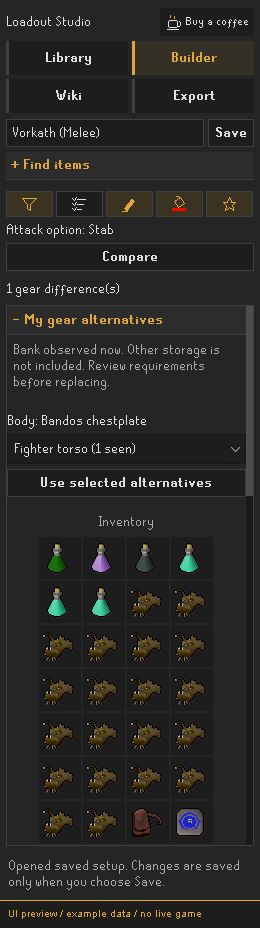
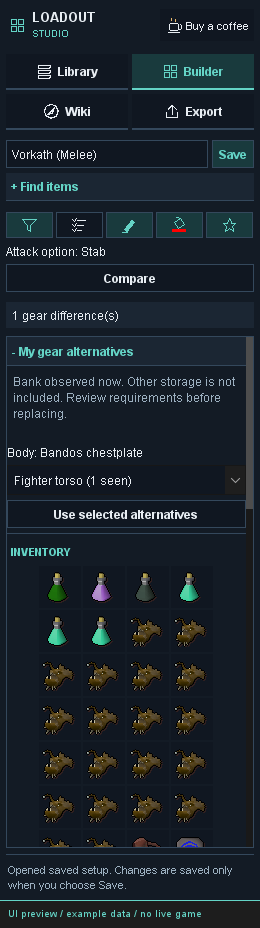
Give Loadout Studio a distinct slate and turquoise sidebar identity

Changed region(s): [[0.0, 0.0, 0.9846, 1.0], [0.6769, 0.9688, 0.7692, 1.0], [0.6154, 0.9688, 0.6462, 1.0]]

diff --git a/src/main/java/com/loadoutstudio/StudioPanel.java b/src/main/java/com/loadoutstudio/StudioPanel.java
@@ -127,8 +127,8 @@ public final class StudioPanel extends PluginPanel
 		public ItemInfo(int id, String name, boolean stackable, int slot, Icon icon) { this.id = id; this.name = name == null ? "Item " + id : name; this.stackable = stackable; this.slot = slot; this.icon = icon; }
 		@Override public String toString() { return name + "  [" + id + "]"; }
 	}
-	private static final Color GOLD = new Color(225, 166, 58), BG = new Color(37, 37, 37), CONTROL = new Color(29, 29, 29), OUTLINE = new Color(64, 64, 64), TEXT = new Color(224, 224, 224), MUTED = new Color(172, 172, 172), SLOT = new Color(29, 29, 29), RED = new Color(195, 92, 72);
-	private static final Font BODY_FONT = FontManager.getRunescapeFont(), ACTION_FONT = FontManager.getRunescapeBoldFont();
+	private static final Color GOLD=StudioTheme.ACCENT,BG=StudioTheme.BACKGROUND,CONTROL=StudioTheme.CONTROL,OUTLINE=StudioTheme.BORDER,TEXT=StudioTheme.TEXT,MUTED=StudioTheme.MUTED,SLOT=StudioTheme.CONTROL,RED=StudioTheme.ERROR;
+	private static final Font BODY_FONT=StudioTheme.BODY,ACTION_FONT=StudioTheme.ACTION;
 	private JTextField wikiQuery;
 	private final List<JButton> navigation = new ArrayList<>();
 	private final Host host;
@@ -139,7 +139,7 @@ public final class StudioPanel extends PluginPanel
 	private final JTabbedPane tabs = new JTabbedPane();
 	private final JPanel libraryRows = vertical(), builder = vertical(), builderTools = vertical();
 	private final Set<String> expandedPanels = new HashSet<>();
-	private final JTextField search = new JTextField(), setupName = new JTextField(){@Override public javax.swing.JToolTip createToolTip(){javax.swing.JToolTip tip=super.createToolTip();tip.putClientProperty("html.disable",true);return tip;}};
+	private final JTextField search = new JTextField(), setupName = new JTextField(){@Override public javax.swing.JToolTip createToolTip(){javax.swing.JToolTip tip=super.createToolTip();tip.putClientProperty("html.disable",true);return StudioTheme.tooltip(tip);}};
 	private final JCheckBox favorites = new JCheckBox("Favorites"), archived = new JCheckBox("Archived"), favorite = new JCheckBox("Favorite"), ignoreAmmo = new JCheckBox("Ignore Ammo quantities");
 	private final JComboBox<String> spellbook = new JComboBox<>(new String[]{"Standard", "Ancient", "Lunar", "Arceuus", "None"});
 	private final JCheckBox filterBank = new JCheckBox("Filter Bank"), bottomToTop = new JCheckBox("Zigzag: bottom row first");
@@ -200,13 +200,15 @@ public final class StudioPanel extends PluginPanel
 			@Override protected Insets getContentBorderInsets(int placement) { return new Insets(0, 0, 0, 0); }
 		});
 		tabs.addTab("Library", libraryTab()); tabs.addTab("Builder", builderTab()); tabs.addTab("Wiki", scroll(wikiTab())); tabs.addTab("Export", exportTab()); add(tabs, BorderLayout.CENTER);
-		JPanel heading = vertical(); JLabel title = text("Loadout Studio"); title.setName("studioTitle"); title.setToolTipText("Loadout Studio 0.8.5-test - character-specific setup library");
+		JPanel heading = vertical(); JLabel title = text("LOADOUT"); title.setName("studioTitle"); title.setToolTipText("Loadout Studio 0.9.0-test - character-specific setup library");
         JButton coffee = button("Buy a coffee", () -> attempt(host::openSupportPage)); coffee.setIcon(new SidebarIcon(SidebarIcon.Kind.COFFEE)); coffee.setName("supportCoffee"); coffee.setToolTipText("Buy a coffee"); coffee.getAccessibleContext().setAccessibleName("Buy a coffee"); coffee.getAccessibleContext().setAccessibleDescription(COFFEE_URL); coffee.setPreferredSize(new Dimension(94, 28));
-        JPanel titleBar = new JPanel(new BorderLayout(3, 0)); titleBar.add(title, BorderLayout.CENTER); titleBar.add(coffee, BorderLayout.EAST); heading.add(titleBar);
+        JPanel wordmark=new JPanel(new GridLayout(2,1,0,0));wordmark.setName("studioWordmark");wordmark.add(title);JLabel subtitle=text("STUDIO");subtitle.setName("studioSubtitle");wordmark.add(subtitle);
+        JPanel identity=new JPanel(new BorderLayout(6,0));JLabel mark=new JLabel(StudioTheme.route(1));mark.setName("studioMark");mark.setForeground(GOLD);mark.setPreferredSize(new Dimension(18,32));identity.add(mark,BorderLayout.WEST);identity.add(wordmark,BorderLayout.CENTER);
+        JPanel titleBar = new JPanel(new BorderLayout(4, 0));titleBar.setBorder(BorderFactory.createEmptyBorder(1,2,8,0));titleBar.add(identity, BorderLayout.CENTER); titleBar.add(coffee, BorderLayout.EAST); heading.add(titleBar);
 		JPanel menu = new JPanel(new GridLayout(2, 2, 4, 4));
 		for (int i = 0; i < tabs.getTabCount(); i++)
 		{
-			final int index = i; JButton route = button(tabs.getTitleAt(i), () -> tabs.setSelectedIndex(index)); route.setName("nav:" + tabs.getTitleAt(i)); route.setPreferredSize(new Dimension(100, 34)); navigation.add(route); menu.add(route);
+			final int index = i; JButton route = button(tabs.getTitleAt(i), () -> tabs.setSelectedIndex(index)); route.setName("nav:" + tabs.getTitleAt(i));route.setIcon(StudioTheme.route(i));route.setIconTextGap(6);route.setPreferredSize(new Dimension(100, 36)); navigation.add(route); menu.add(route);
 		}
 		heading.add(menu); add(heading, BorderLayout.NORTH); tabs.addChangeListener(e -> { updateNavigation(); if (tabs.getSelectedIndex() == 0) search.requestFocusInWindow(); if (tabs.getSelectedIndex() == 2 && wikiQuery != null) wikiQuery.requestFocusInWindow(); if (tabs.getSelectedIndex() == 3 && draft != null) refreshCode(); });
 		status.setName("studioStatus"); status.setRows(2); status.setEditable(false); status.setLineWrap(true); status.setWrapStyleWord(true); status.setBorder(BorderFactory.createEmptyBorder(6, 2, 2, 2)); add(status, BorderLayout.SOUTH);
@@ -278,13 +280,7 @@ public final class StudioPanel extends PluginPanel
 	@Override public Dimension getMinimumSize(){return new Dimension(0,0);}
     private static JPanel vertical() { return new Column(); }
 	private static JLabel text(String text) { JLabel label = new JLabel(text); label.putClientProperty("html.disable", true); label.setAlignmentX(Component.LEFT_ALIGNMENT); label.setFont(BODY_FONT); label.setForeground(TEXT); return label; }
-	private static void themeForm(Component component)
-	{
-		if (component instanceof JButton && "itemSlot".equals(component.getName())) return;
-		if (component instanceof JLabel) { component.setFont(BODY_FONT); }
-		else if (!(component instanceof Container) || component instanceof javax.swing.text.JTextComponent || component instanceof javax.swing.AbstractButton || component instanceof JComboBox || component instanceof JList) applyTheme(component);
-		else { component.setBackground(BG); for (Component child : ((Container) component).getComponents()) themeForm(child); }
-	}
+	private static void themeForm(Component component){applyTheme(component);}
 	private static JTextArea info(String value, int rows) { JTextArea area = new JTextArea(value, rows, 18); area.setEditable(false); area.setLineWrap(true); area.setWrapStyleWord(true); area.setMaximumSize(new Dimension(500, rows * 18 + 8)); return area; }
 	private static JPanel card(String title, Component... children) { JPanel p = vertical(); p.setBorder(BorderFactory.createCompoundBorder(BorderFactory.createLineBorder(OUTLINE), BorderFactory.createEmptyBorder(7, 7, 7, 7))); JLabel label = text(title); label.setName("sectionTitle"); label.setForeground(GOLD); p.add(label); for (Component child : children) p.add(child); return p; }
 	private JPanel disclosure(String title, Component content)
@@ -293,7 +289,7 @@ public final class StudioPanel extends PluginPanel
 		toggle.setName("disclosure:"+title);toggle.setHorizontalAlignment(JButton.LEFT);toggle.putClientProperty("disclosure",true);
 		toggle.addActionListener(e -> { boolean open = !content.isVisible(); content.setVisible(open); if (open) expandedPanels.add(title); else expandedPanels.remove(title); toggle.setText((open ? "- " : "+ ") + title); for (Container ancestor = p; ancestor != null; ancestor = ancestor.getParent()) { ancestor.invalidate(); if (ancestor == this) break; } p.revalidate(); }); p.add(toggle); p.add(content); return p;
 	}
-	private void updateNavigation() { for (int i = 0; i < navigation.size(); i++) { JButton b = navigation.get(i); boolean active = i == tabs.getSelectedIndex(); b.setForeground(active ? GOLD : TEXT); b.setBackground(active ? new Color(53, 48, 37) : CONTROL); b.setBorder(BorderFactory.createCompoundBorder(BorderFactory.createMatteBorder(0, 3, 0, 0, active ? GOLD : OUTLINE), BorderFactory.createEmptyBorder(5, 6, 5, 6))); } }
+	private void updateNavigation() { for (int i = 0; i < navigation.size(); i++) { JButton b = navigation.get(i); boolean active = i == tabs.getSelectedIndex(); b.setForeground(active ? GOLD : TEXT); b.setBackground(active ? StudioTheme.SELECTED : CONTROL); b.setBorder(BorderFactory.createCompoundBorder(BorderFactory.createMatteBorder(0, 0, 2, 0, active ? GOLD : OUTLINE), BorderFactory.createEmptyBorder(5, 6, 5, 6))); } }
     private static void themeMenu(javax.swing.JPopupMenu menu)
     {
         menu.setBackground(CONTROL);
@@ -312,8 +308,9 @@ public final class StudioPanel extends PluginPanel
     }
 	private static void applyTheme(Component component)
 	{
+		if(component instanceof JButton&&"itemSlot".equals(component.getName()))return;
 		component.setFont(BODY_FONT); component.setForeground(TEXT); component.setBackground(BG);
-		if ("exportCode".equals(component.getName())) { component.setFont(new Font(Font.MONOSPACED, Font.PLAIN, 11)); component.setBackground(CONTROL); }
+		if ("exportCode".equals(component.getName())) { component.setFont(StudioTheme.CODE); component.setBackground(CONTROL); }
 		if (component instanceof javax.swing.AbstractButton) { javax.swing.AbstractButton b = (javax.swing.AbstractButton) component; b.setBackground(CONTROL); if (!(b instanceof JCheckBox)) { b.setFont(ACTION_FONT); b.setBorder(BorderFactory.createCompoundBorder(BorderFactory.createLineBorder(OUTLINE), BorderFactory.createEmptyBorder(5, 6, 5, 6))); b.setFocusPainted(true); } }
         if (component instanceof JButton && component.getName() != null && component.getName().startsWith("library"))
         {
@@ -322,20 +319,31 @@ public final class StudioPanel extends PluginPanel
         }
         if (component instanceof JButton && "supportCoffee".equals(component.getName()))
         {
-            component.setFont(FontManager.getRunescapeSmallFont());
+            component.setFont(StudioTheme.SMALL);
             ((JButton)component).setBorder(BorderFactory.createEmptyBorder(2, 3, 2, 3));
         }
-		if(component instanceof JButton && ((JButton)component).getClientProperty("disclosure")!=null){JButton b=(JButton)component;b.setBackground(new Color(44,44,44));b.setForeground(GOLD);b.setBorder(BorderFactory.createCompoundBorder(BorderFactory.createMatteBorder(0,0,1,0,OUTLINE),BorderFactory.createEmptyBorder(6,5,6,5)));}
-        if(component instanceof JButton && component.getName()!=null && component.getName().startsWith("wikiPreset:")){JButton b=(JButton)component;b.setBackground(new Color(48,44,34));b.setForeground(GOLD);b.setBorder(BorderFactory.createCompoundBorder(BorderFactory.createMatteBorder(0,3,0,0,GOLD),BorderFactory.createEmptyBorder(7,8,7,8)));}
-        if(component instanceof JButton && component.getName()!=null && component.getName().startsWith("setupToggle:")){JButton b=(JButton)component;boolean selected=Boolean.TRUE.equals(b.getClientProperty("selected"));b.setBackground(selected?new Color(58,51,33):CONTROL);b.setForeground(selected?GOLD:TEXT);b.setBorder(BorderFactory.createCompoundBorder(BorderFactory.createLineBorder(OUTLINE),BorderFactory.createEmptyBorder(3,3,3,3)));}
+		if(component instanceof JButton && ((JButton)component).getClientProperty("disclosure")!=null){JButton b=(JButton)component;b.setBackground(StudioTheme.SURFACE);b.setForeground(GOLD);b.setBorder(BorderFactory.createCompoundBorder(BorderFactory.createMatteBorder(0,0,1,0,OUTLINE),BorderFactory.createEmptyBorder(6,5,6,5)));}
+        if(component instanceof JButton && component.getName()!=null && component.getName().startsWith("wikiPreset:")){JButton b=(JButton)component;b.setBackground(StudioTheme.SELECTED);b.setForeground(GOLD);b.setBorder(BorderFactory.createCompoundBorder(BorderFactory.createMatteBorder(0,3,0,0,GOLD),BorderFactory.createEmptyBorder(7,8,7,8)));}
+        if(component instanceof JButton && component.getName()!=null && component.getName().startsWith("setupToggle:")){JButton b=(JButton)component;boolean selected=Boolean.TRUE.equals(b.getClientProperty("selected"));b.setBackground(selected?StudioTheme.SELECTED:CONTROL);b.setForeground(selected?GOLD:TEXT);b.setBorder(BorderFactory.createCompoundBorder(BorderFactory.createLineBorder(OUTLINE),BorderFactory.createEmptyBorder(3,3,3,3)));}
+        if(component instanceof JCheckBox){JCheckBox b=(JCheckBox)component;b.setIcon(StudioTheme.check(false));b.setSelectedIcon(StudioTheme.check(true));b.setDisabledIcon(StudioTheme.check(false));b.setDisabledSelectedIcon(StudioTheme.check(true));b.setBackground(BG);}
         if (component instanceof JTextField || component instanceof JComboBox || component instanceof JList) component.setBackground(CONTROL);
 		if (component instanceof JTextField) ((JTextField) component).setBorder(BorderFactory.createCompoundBorder(BorderFactory.createLineBorder(OUTLINE), BorderFactory.createEmptyBorder(4, 5, 4, 5)));
 		if (component instanceof JScrollPane) ((JScrollPane) component).setBorder(BorderFactory.createLineBorder(OUTLINE));
 		if(component instanceof JComboBox && !Boolean.TRUE.equals(((JComboBox<?>)component).getClientProperty("preserveRenderer")))((JComboBox<?>)component).setRenderer(plainNames());
-        if (component instanceof JList) { ((JList<?>)component).setCellRenderer(plainNames());((JList<?>) component).setSelectionBackground(new Color(62, 53, 35)); ((JList<?>) component).setSelectionForeground(GOLD); }
+        if (component instanceof JList) { ((JList<?>)component).setCellRenderer(plainNames());((JList<?>) component).setSelectionBackground(StudioTheme.SELECTED); ((JList<?>) component).setSelectionForeground(GOLD); }
 		if (component instanceof JTextArea) { JTextArea a = (JTextArea) component; a.setForeground(a.isEditable() ? TEXT : MUTED); a.setBackground(a.isEditable() ? CONTROL : BG); }
 		if ("exportCode".equals(component.getName())) component.setBackground(CONTROL);
 		if (component instanceof JLabel && "sectionTitle".equals(component.getName())) { component.setForeground(GOLD); component.setFont(ACTION_FONT); }
+        if(component instanceof JLabel&&"studioTitle".equals(component.getName())){component.setFont(new Font(Font.SANS_SERIF,Font.BOLD,13));component.setForeground(TEXT);}
+        if(component instanceof JLabel&&"studioMark".equals(component.getName()))component.setForeground(GOLD);
+        if(component instanceof JLabel&&"studioSubtitle".equals(component.getName())){component.setFont(new Font(Font.SANS_SERIF,Font.BOLD,10));component.setForeground(GOLD);}
+        if(component instanceof JLabel&&"loadoutSectionTitle".equals(component.getName())){component.setFont(StudioTheme.SECTION);component.setForeground(GOLD);}
+        if(component instanceof JLabel&&"gearReadiness".equals(component.getName())){((JLabel)component).setOpaque(true);component.setBackground(StudioTheme.SURFACE);((JLabel)component).setBorder(BorderFactory.createEmptyBorder(5,6,5,6));}
+        if(component instanceof JButton&&component.getName()!=null&&component.getName().startsWith("libraryGroup:")){JButton b=(JButton)component;b.setHorizontalAlignment(JButton.LEFT);b.setBackground(BG);b.setForeground(MUTED);b.setFont(StudioTheme.SECTION);b.setBorder(BorderFactory.createCompoundBorder(BorderFactory.createMatteBorder(0,0,1,0,OUTLINE),BorderFactory.createEmptyBorder(8,4,6,4)));}
+        if(component instanceof JPanel&&component.getName()!=null&&component.getName().startsWith("libraryRow:")){component.setBackground(StudioTheme.SURFACE);((JPanel)component).setBorder(BorderFactory.createCompoundBorder(BorderFactory.createMatteBorder(0,2,0,0,GOLD),BorderFactory.createEmptyBorder(2,4,2,0)));}
+        if(component instanceof JButton&&component.getName()!=null&&component.getName().startsWith("libraryOpen:")){((JButton)component).setBorder(BorderFactory.createEmptyBorder(2,4,2,3));component.setBackground(StudioTheme.SURFACE);}
+        if(component instanceof JButton&&("Save".equals(((JButton)component).getText())||"Copy code".equals(((JButton)component).getText()))){component.setBackground(StudioTheme.SELECTED);component.setForeground(GOLD);}
+        if(component instanceof JTextArea&&"studioStatus".equals(component.getName())){component.setFont(StudioTheme.SMALL);((JTextArea)component).setBorder(BorderFactory.createCompoundBorder(BorderFactory.createMatteBorder(1,0,0,0,OUTLINE),BorderFactory.createEmptyBorder(7,2,0,2)));}
 		if (component instanceof Container) for (Component child : ((Container) component).getComponents()) applyTheme(child);
 	}
     private static javax.swing.DefaultListCellRenderer plainNames()
@@ -344,7 +352,7 @@ public final class StudioPanel extends PluginPanel
         {
             @Override public Component getListCellRendererComponent(JList<?> list,Object value,int index,boolean selected,boolean focus)
             {
-                putClientProperty("html.disable",true);Component rendered=super.getListCellRendererComponent(list,value,index,selected,focus);rendered.setFont(BODY_FONT);return rendered;
+                putClientProperty("html.disable",true);Component rendered=super.getListCellRendererComponent(list,value,index,selected,focus);rendered.setFont(BODY_FONT);rendered.setBackground(selected?StudioTheme.SELECTED:CONTROL);rendered.setForeground(selected?GOLD:TEXT);return rendered;
             }
         };
     }
@@ -489,7 +497,7 @@ public final class StudioPanel extends PluginPanel
 			String groupId = group.id == null ? "" : group.id;
 			boolean filtering = !query.isEmpty() || favorites.isSelected();
 			boolean folded = collapsed.contains(groupId) && !filtering;
-			JButton heading = button((folded ? "+ " : "- ") + group.name + " (" + records.size() + ")", () -> { if (!collapsed.add(groupId)) collapsed.remove(groupId); renderLibrary(); }); heading.setForeground(GOLD); heading.setAlignmentX(LEFT_ALIGNMENT); heading.setEnabled(!filtering); if (filtering) heading.setToolTipText("Matching sections stay expanded while filtering."); libraryRows.add(heading);
+			JButton heading = button((folded ? "+ " : "- ") + group.name + " (" + records.size() + ")", () -> { if (!collapsed.add(groupId)) collapsed.remove(groupId); renderLibrary(); }); heading.setName("libraryGroup:"+groupId);heading.setForeground(GOLD); heading.setAlignmentX(LEFT_ALIGNMENT); heading.setEnabled(!filtering); if (filtering) heading.setToolTipText("Matching sections stay expanded while filtering."); libraryRows.add(heading);
 			if (folded) continue;
 			for (SetupLibrary.Entry entry : records)
 			{
@@ -695,8 +703,8 @@ public final class StudioPanel extends PluginPanel
     }
     private static JPanel loadoutSection(String title, Component content)
     {
-        JPanel section = new JPanel(new BorderLayout(0, 6)) { @Override public Dimension getMaximumSize() { return new Dimension(500,getPreferredSize().height); } }; section.setName("loadoutSection:" + title); section.setBorder(BorderFactory.createEmptyBorder(12, 0, 8, 0));
-        JLabel label = text(title); label.setHorizontalAlignment(JLabel.CENTER); label.setForeground(MUTED); section.add(label, BorderLayout.NORTH);
+        JPanel section = new JPanel(new BorderLayout(0, 6)) { @Override public Dimension getMaximumSize() { return new Dimension(500,getPreferredSize().height); } }; section.setName("loadoutSection:" + title); section.setBorder(BorderFactory.createCompoundBorder(BorderFactory.createMatteBorder(1,0,0,0,OUTLINE),BorderFactory.createEmptyBorder(10,4,8,4)));
+        JLabel label = text(title.toUpperCase(java.util.Locale.ROOT));label.setName("loadoutSectionTitle");label.setFont(StudioTheme.SECTION);label.setHorizontalAlignment(JLabel.LEFT);label.setForeground(GOLD); section.add(label, BorderLayout.NORTH);
         JPanel centered = new JPanel(new java.awt.FlowLayout(java.awt.FlowLayout.CENTER, 0, 0)); centered.add(content); section.add(centered, BorderLayout.CENTER); return section;
     }
 	private int firstEmpty() { JsonArray inv = SetupCodec.setup(draft).getAsJsonArray("inv"); for (int i = 0; i < 28; i++) if (inv.get(i).isJsonNull()) return i; return -1; }
@@ -936,7 +944,7 @@ public final class StudioPanel extends PluginPanel
             for(OwnedGear.Proposal proposal:proposals){
                 int id=SetupCodec.id(proposal.before);ItemInfo original=owned.items.get(id);String missingName=proposal.before.getAsJsonObject().has("label")?proposal.before.getAsJsonObject().get("label").getAsString():original==null?itemCache.containsKey(id)?itemCache.get(id).name:"Item "+id:original.name;JLabel missing=text((proposal.container.equals("eq")?EQUIPMENT[proposal.index]:"Inventory "+(proposal.index+1))+": "+missingName);missing.setMinimumSize(new Dimension(0,18));missing.setToolTipText(missing.getText()+" · "+proposal.reason);alternativeRows.add(missing);
                 JComboBox<ItemInfo> select=new JComboBox<>();select.setName("ownedChoice:"+proposal.container+":"+proposal.index);select.addItem(new ItemInfo(-1,"Keep original",false,-1,null));for(ItemInfo item:proposal.choices.subList(0,Math.min(Math.max(1,Math.min(5,host.settings().maxAlternatives())),proposal.choices.size()))){select.addItem(item);itemCache.put(item.id,item);}
-                select.setRenderer(new javax.swing.DefaultListCellRenderer(){@Override public Component getListCellRendererComponent(JList<?> list,Object value,int index,boolean selected,boolean focused){JLabel label=(JLabel)super.getListCellRendererComponent(list,value,index,selected,focused);label.putClientProperty("html.disable",true);label.setFont(BODY_FONT);label.setText(value==null||((ItemInfo)value).id<1?"Keep original":((ItemInfo)value).name+" ("+owned.count(((ItemInfo)value).id)+" seen)");return label;}});
+                select.setRenderer(new javax.swing.DefaultListCellRenderer(){@Override public Component getListCellRendererComponent(JList<?> list,Object value,int index,boolean selected,boolean focused){JLabel label=(JLabel)super.getListCellRendererComponent(list,value,index,selected,focused);label.putClientProperty("html.disable",true);label.setFont(BODY_FONT);label.setBackground(selected?StudioTheme.SELECTED:CONTROL);label.setForeground(selected?GOLD:TEXT);label.setText(value==null||((ItemInfo)value).id<1?"Keep original":((ItemInfo)value).name+" ("+owned.count(((ItemInfo)value).id)+" seen)");return label;}});
                 select.putClientProperty("preserveRenderer",true);select.setToolTipText(proposal.reason);alternativeRows.add(select);choices.put(proposal,select);
             }
             if(proposals.isEmpty())alternativeRows.add(info("No supported owned alternatives found. Missing gear is not automatically replaced.",3));

diff --git a/src/main/java/com/loadoutstudio/StudioTheme.java b/src/main/java/com/loadoutstudio/StudioTheme.java
@@ -1,0 +1,17 @@
+/* SPDX-License-Identifier: BSD-2-Clause */
+package com.loadoutstudio;
+import java.awt.*;
+import javax.swing.*;
+/** Loadout Studio's own palette. Applied locally; never changes RuneLite UI defaults. */
+final class StudioTheme {
+    static final Color BACKGROUND=new Color(19,27,37),SURFACE=new Color(27,38,51),CONTROL=new Color(16,23,33),BORDER=new Color(52,72,92),TEXT=new Color(231,237,242),MUTED=new Color(156,176,192),ACCENT=new Color(100,212,198),SELECTED=new Color(25,58,61),FAVORITE=new Color(231,184,110),ERROR=new Color(230,139,134);
+    static final Font BODY=new Font(Font.SANS_SERIF,Font.PLAIN,12),ACTION=new Font(Font.SANS_SERIF,Font.BOLD,12),SMALL=new Font(Font.SANS_SERIF,Font.PLAIN,11),SECTION=new Font(Font.SANS_SERIF,Font.BOLD,11),CODE=new Font(Font.MONOSPACED,Font.PLAIN,11);
+    private StudioTheme(){}
+    static JToolTip tooltip(JToolTip tip){tip.setFont(SMALL);tip.setBackground(SURFACE);tip.setForeground(TEXT);tip.setBorder(BorderFactory.createCompoundBorder(BorderFactory.createLineBorder(BORDER),BorderFactory.createEmptyBorder(5,7,5,7)));return tip;}
+    static Icon check(boolean selected){return new Icon(){public int getIconWidth(){return 16;}public int getIconHeight(){return 16;}public void paintIcon(Component c,Graphics graphics,int x,int y){Graphics2D g=(Graphics2D)graphics.create();g.translate(x,y);g.setColor(selected?SELECTED:CONTROL);g.fillRoundRect(1,1,13,13,3,3);g.setColor(!c.isEnabled()?MUTED:selected?ACCENT:BORDER);g.drawRoundRect(1,1,13,13,3,3);if(selected){g.setStroke(new BasicStroke(1.6f));g.drawLine(4,7,7,10);g.drawLine(7,10,12,4);}g.dispose();}};}
+    static Icon route(int kind){return new Icon(){public int getIconWidth(){return 16;}public int getIconHeight(){return 16;}public void paintIcon(Component c,Graphics graphics,int x,int y){Graphics2D g=(Graphics2D)graphics.create();g.translate(x,y);g.setColor(c.getForeground());g.setStroke(new BasicStroke(1.3f));
+        if(kind==0){for(int i=0;i<3;i++){g.drawRoundRect(2,2+i*5,12,3,1,1);}}
+        else if(kind==1){for(int row=0;row<2;row++)for(int col=0;col<2;col++)g.drawRect(2+col*7,2+row*7,5,5);}
+        else if(kind==2){g.drawOval(1,1,14,14);g.drawPolygon(new int[]{5,11,9},new int[]{11,5,10},3);}
+        else{g.drawLine(2,9,2,14);g.drawLine(2,14,13,14);g.drawLine(13,14,13,9);g.drawLine(8,11,8,2);g.drawLine(4,6,8,2);g.drawLine(8,2,12,6);}g.dispose();}};}
+}

diff --git a/src/test/java/com/loadoutstudio/StudioIdentityStyleTest.java b/src/test/java/com/loadoutstudio/StudioIdentityStyleTest.java
@@ -1,0 +1,10 @@
+/* SPDX-License-Identifier: BSD-2-Clause */
+package com.loadoutstudio;
+import java.awt.*;import javax.swing.*;import org.junit.Test;import net.runelite.http.api.RuneLiteAPI;import static org.junit.Assert.*;
+public class StudioIdentityStyleTest {
+ @Test public void stylingDoesNotMutateNativeRuneLiteDefaults()throws Exception{SwingUtilities.invokeAndWait(()->{Color background=UIManager.getColor("Panel.background"),selection=UIManager.getColor("List.selectionBackground");Font font=UIManager.getFont("Label.font");StudioPanel panel=new StudioPanel(new PanelTest.FakeHost(),RuneLiteAPI.GSON);assertEquals(background,UIManager.getColor("Panel.background"));assertEquals(selection,UIManager.getColor("List.selectionBackground"));assertEquals(font,UIManager.getFont("Label.font"));assertEquals(StudioTheme.BACKGROUND,panel.getBackground());panel.dispose();});}
+ private static double lum(Color c){double[] v={c.getRed()/255d,c.getGreen()/255d,c.getBlue()/255d};for(int i=0;i<3;i++)v[i]=v[i]<=.04045?v[i]/12.92:Math.pow((v[i]+.055)/1.055,2.4);return .2126*v[0]+.7152*v[1]+.0722*v[2];}
+ private static double contrast(Color a,Color b){double x=lum(a),y=lum(b);return (Math.max(x,y)+.05)/(Math.min(x,y)+.05);}
+ @Test public void ownTextAndAccentPairsRemainReadable(){assertTrue(contrast(StudioTheme.TEXT,StudioTheme.BACKGROUND)>=4.5);assertTrue(contrast(StudioTheme.MUTED,StudioTheme.BACKGROUND)>=4.5);assertTrue(contrast(StudioTheme.ACCENT,StudioTheme.SELECTED)>=4.5);assertTrue(contrast(StudioTheme.TEXT,StudioTheme.CONTROL)>=4.5);assertTrue(contrast(StudioTheme.ERROR,StudioTheme.BACKGROUND)>=4.5);}
+ @Test public void navigationAndPermanentSupportLabelsFitWithTheirIcons()throws Exception{SwingUtilities.invokeAndWait(()->{for(int width:new int[]{220,260}){StudioPanel panel=new StudioPanel(new PanelTest.FakeHost(),RuneLiteAPI.GSON);panel.setSize(width,900);OwnedGearPanelTest.layout(panel);OwnedGearPanelTest.layout(panel);for(String name:new String[]{"nav:Library","nav:Builder","nav:Wiki","nav:Export","supportCoffee"}){JButton b=(JButton)OwnedGearPanelTest.find(panel,name);int needed=b.getFontMetrics(b.getFont()).stringWidth(b.getText())+b.getInsets().left+b.getInsets().right+b.getIcon().getIconWidth()+b.getIconTextGap();assertTrue(name+" needs "+needed+"px; available="+b.getWidth(),needed<=b.getWidth());assertTrue(b.isVisible());}panel.dispose();}});}
+}

diff --git a/src/main/java/com/loadoutstudio/LibrarySetupRow.java b/src/main/java/com/loadoutstudio/LibrarySetupRow.java
@@ -48,7 +48,7 @@ final class LibrarySetupRow extends JPanel
             setHorizontalAlignment(LEFT); setMargin(new Insets(2, 5, 2, 3));
             setPreferredSize(new Dimension(120, 30)); setMinimumSize(new Dimension(0, 30));
         }
-        @Override public JToolTip createToolTip(){JToolTip tip=super.createToolTip();tip.putClientProperty("html.disable",true);return tip;}
+        @Override public JToolTip createToolTip(){JToolTip tip=super.createToolTip();tip.putClientProperty("html.disable",true);return StudioTheme.tooltip(tip);}
         @Override public void setBounds(int x, int y, int width, int height)
         {
             super.setBounds(x, y, width, height);
@@ -75,7 +75,7 @@ final class LibrarySetupRow extends JPanel
             public void paintIcon(Component c, Graphics graphics, int x, int y)
             {
                 Graphics2D g = (Graphics2D)graphics.create(); g.translate(x, y);
-                g.setColor(selected ? new Color(225, 166, 58) : c.getForeground());
+                g.setColor(selected ? StudioTheme.FAVORITE : c.getForeground());
                 if (kind == 0)
                 {
                     Path2D star = new Path2D.Double();
@@ -88,7 +88,7 @@ final class LibrarySetupRow extends JPanel
                 }
                 else if (kind == 3)
                 {
-                    g.setColor(new Color(218, 117, 117)); g.drawLine(2, 4, 13, 4); g.drawRect(6, 1, 4, 2); g.drawRect(4, 5, 8, 9); g.drawLine(7, 7, 7, 12); g.drawLine(9, 7, 9, 12);
+                    g.setColor(StudioTheme.ERROR); g.drawLine(2, 4, 13, 4); g.drawRect(6, 1, 4, 2); g.drawRect(4, 5, 8, 9); g.drawLine(7, 7, 7, 12); g.drawLine(9, 7, 9, 12);
                 }
                 else
                 {

diff --git a/src/test/java/com/loadoutstudio/SidebarLayoutTest.java b/src/test/java/com/loadoutstudio/SidebarLayoutTest.java
@@ -10,7 +10,6 @@ import java.util.function.BiConsumer;
 import javax.imageio.ImageIO;
 import javax.swing.*;
 import net.runelite.http.api.RuneLiteAPI;
-import net.runelite.client.ui.FontManager;
 import org.junit.Test;
 import static org.junit.Assert.*;
 
@@ -48,7 +47,7 @@ public class SidebarLayoutTest
                 JButton coffee = (JButton)find(panel, "supportCoffee"); assertEquals("Buy a coffee", coffee.getText()); assertNotNull(coffee.getIcon()); assertEquals("https://buymeacoffee.com/pascalvdbe9", coffee.getAccessibleContext().getAccessibleDescription()); coffee.doClick(); assertEquals(1, supportClicks[0]);
                 assertFalse(((JButton)find(panel, "Copy code")).isEnabled()); panel.newDraft(SetupCodec.blank("Vorkath")); assertTrue(((JButton)find(panel, "Copy code")).isEnabled());
 				layout(panel); layout(panel); String[] routes = {"Library", "Builder", "Wiki", "Export"}; Rectangle[] bounds = new Rectangle[4];
-				for (int i = 0; i < 4; i++) { JButton route = (JButton)find(panel, "nav:" + routes[i]); bounds[i] = route.getBounds(); assertTrue(route.getWidth() >= 80); assertTrue(route.getHeight() >= 30); assertEquals(FontManager.getRunescapeFont().getFamily(), route.getFont().getFamily()); }
+				for (int i = 0; i < 4; i++) { JButton route = (JButton)find(panel, "nav:" + routes[i]); bounds[i] = route.getBounds(); assertTrue(route.getWidth() >= 80); assertTrue(route.getHeight() >= 30); assertEquals(StudioTheme.ACTION.getFamily(), route.getFont().getFamily()); }
 				for (int tab = 0; tab < 4; tab++)
 				{
 					((JButton)find(panel, "nav:" + routes[tab])).doClick();

diff --git a/src/main/java/com/loadoutstudio/SidebarIcon.java b/src/main/java/com/loadoutstudio/SidebarIcon.java
@@ -15,12 +15,12 @@ final class SidebarIcon implements Icon
     public void paintIcon(Component component, Graphics graphics, int x, int y)
     {
         Graphics2D g = (Graphics2D)graphics.create(); g.translate(x, y);
-        g.setColor(kind == Kind.NEW ? new Color(85, 180, 91) : component.getForeground());
+        g.setColor(kind == Kind.NEW ? StudioTheme.ACCENT : component.getForeground());
         switch (kind)
         {
             case COFFEE:
                 g.drawRoundRect(3, 6, 9, 7, 2, 2); g.drawArc(11, 7, 4, 5, -90, 180); g.drawLine(2, 15, 13, 15);
-                g.setColor(new Color(225, 166, 58)); g.drawLine(5, 1, 5, 3); g.drawLine(9, 2, 9, 4); break;
+                g.setColor(StudioTheme.FAVORITE); g.drawLine(5, 1, 5, 3); g.drawLine(9, 2, 9, 4); break;
             case NEW: g.fillRect(7, 2, 2, 12); g.fillRect(2, 7, 12, 2); break;
             case CAPTURE:
                 g.drawRoundRect(1, 5, 13, 9, 2, 2); g.drawRect(4, 2, 6, 3); g.drawOval(5, 7, 5, 5); break;

diff --git a/src/main/java/com/loadoutstudio/LoadoutSlotButton.java b/src/main/java/com/loadoutstudio/LoadoutSlotButton.java
@@ -11,7 +11,7 @@ import net.runelite.client.util.AsyncBufferedImage;
 /** Counts are an overlay inside the cell, not a second layout row above its icon. */
 final class LoadoutSlotButton extends JButton
 {
-    @Override public javax.swing.JToolTip createToolTip(){javax.swing.JToolTip tip=super.createToolTip();tip.putClientProperty("html.disable",true);return tip;}
+    @Override public javax.swing.JToolTip createToolTip(){javax.swing.JToolTip tip=super.createToolTip();tip.putClientProperty("html.disable",true);return StudioTheme.tooltip(tip);}
     private String amount = "";
     java.util.function.Function<Boolean,javax.swing.JPopupMenu> menuFactory;
     @Override protected void processMouseEvent(java.awt.event.MouseEvent event){if(menuFactory!=null&&(event.isPopupTrigger()||javax.swing.SwingUtilities.isRightMouseButton(event)))setComponentPopupMenu(menuFactory.apply(event.isShiftDown()));super.processMouseEvent(event);}

diff --git a/src/test/java/com/loadoutstudio/StylingConsistencyTest.java b/src/test/java/com/loadoutstudio/StylingConsistencyTest.java
@@ -6,7 +6,6 @@ import java.awt.image.BufferedImage;
 import java.io.File;
 import javax.imageio.ImageIO;
 import javax.swing.*;
-import net.runelite.client.ui.FontManager;
 import net.runelite.http.api.RuneLiteAPI;
 import org.junit.Test;
 import static org.junit.Assert.*;
@@ -26,8 +25,8 @@ public class StylingConsistencyTest
     {
         for (Component child : menu.getComponents())
         {
-            assertEquals(FontManager.getRunescapeFont(), child.getFont());
-            assertEquals(new Color(29,29,29), child.getBackground());
+            assertEquals(StudioTheme.BODY, child.getFont());
+            assertEquals(StudioTheme.CONTROL, child.getBackground());
             if (child instanceof JMenu) checkMenu(((JMenu) child).getPopupMenu());
         }
     }

diff --git a/src/main/java/com/loadoutstudio/StudioDiagnostics.java b/src/main/java/com/loadoutstudio/StudioDiagnostics.java
@@ -6,7 +6,7 @@ import java.util.*;
 
 /** Bounded session-only diagnostics. No free text, identifiers, files or network transport. */
 final class StudioDiagnostics {
-    static final String VERSION="0.8.5-test";
+    static final String VERSION="0.9.0-test";
     static final String ISSUE_URL="https://github.com/Pa5cal1/runelite-loadout-studio/issues/new?template=bug_report.yml";
     enum Operation { UI_ACTION,SAVE,IMPORT,EXPORT_PREVIEW,EXPORT_COPY,ITEM_EDIT,ITEM_SEARCH,WIKI_SEARCH,WIKI_PAGE,WIKI_HTTP,WIKI_CACHE_HIT,WIKI_CACHE_FALLBACK,WIKI_CACHE_IO,WIKI_COALESCED,BANK_FILTER,BANK_LAYOUT,ALTERNATIVES }
     enum Outcome { SUCCESS,VALIDATION,EXPECTED_STATE,IO_FAILURE,SERVICE_FAILURE,UNEXPECTED }

diff --git a/src/main/java/com/loadoutstudio/WikiClient.java b/src/main/java/com/loadoutstudio/WikiClient.java
@@ -33,7 +33,7 @@ public final class WikiClient
     private long nextRequest, cooldown;
     private boolean busy;
     private volatile boolean closed;
-    private static final String USER_AGENT="LoadoutStudio/0.8.5 (https://github.com/Pa5cal1/runelite-loadout-studio; RuneLite)";
+    private static final String USER_AGENT="LoadoutStudio/0.9.0 (https://github.com/Pa5cal1/runelite-loadout-studio; RuneLite)";
     interface Store
     {
         String load() throws IOException;

diff --git a/README.md b/README.md
@@ -2,13 +2,13 @@
 
 Create and organise gear setups for Old School RuneScape. Find loadouts on the OSRS Wiki, edit your Inventory and Equipment, and use your setups with Bank Tags or Inventory Setups.
 
-**Current version: 0.8.5-test.** Loadout Studio is a local test plugin and is not yet available through the RuneLite Plugin Hub. Docker is not required to run the plugin or the Java/Gradle test client.
+**Current version: 0.9.0-test.** Loadout Studio is a local test plugin and is not yet available through the RuneLite Plugin Hub. Docker is not required to run the plugin or the Java/Gradle test client.
 
 Loadout Studio works without the Inventory Setups and standalone Bank Tag Layouts hub plugins. It owns its library, editor, comparison and codecs. Bank filtering also works with built-in **Bank Tags** disabled. When it is active, Loadout Studio can use its native layout service; otherwise it uses an independent view of the ordinary Bank's real widgets. Actual Bank stock counts and item child indices are preserved. Optional imports create independent copies.
 
 ## Screenshots
 
-Offline renders of the actual sidebar using RuneLite styling and example loadouts. These are UI previews, not captures of a logged-in client or proof of live Bank behavior.
+Offline renders of the actual sidebar using Loadout Studio's own slate/turquoise theme and example loadouts. These are UI previews, not captures of a logged-in client or proof of live Bank behavior.
 
 ![Library, Builder, Wiki and Export previews](docs/screenshots/overview.png)
 
@@ -50,6 +50,12 @@ The sidebar has four tabs:
 - **Builder** — view and edit the selected loadout.
 - **Wiki** — search for an activity and choose a setup.
 - **Export** — copy a setup in the format you want to use.
+
+## Visual Design
+
+Loadout Studio uses its own dark slate surfaces, turquoise accents, sans-serif typography, wordmark, navigation icons and compact setup cards. Primary actions, expandable sections and Wiki setup choices have distinct treatments. OSRS item sprites, yellow stack counts and the familiar slot geometry remain intact.
+
+The theme is applied only to this plugin's sidebar, controls and support views. RuneLite's native configuration window and in-game Bank menus retain the host's styling; other plugins' UI defaults are not changed.
 
 ## Plugin Preferences
 
@@ -303,6 +309,13 @@ Automated tests cover data formats, item matching, layouts, caching and sidebar 
 </details>
 
 ## Changelog
+
+### 0.9.0-test
+
+- Give Loadout Studio a distinct slate/turquoise visual identity, sans-serif text, two-line wordmark and icon navigation.
+- Restyle setup cards, section headings, Wiki choices, primary actions, checkboxes, menus and tooltips consistently within this plugin.
+- Preserve item artwork, count rendering, slot dimensions, saved data and native RuneLite settings styling. No global UI defaults are changed.
+- Refresh the sidebar and diagnostics screenshot gallery; verify contrast and narrow navigation labels.
 
 ### 0.8.5-test
 

diff --git a/docs/sidebar-system-design.md b/docs/sidebar-system-design.md
@@ -143,3 +143,9 @@ Three settings documentation images derive their names, ordering, sections and d
 StudioDiagnostics keeps fixed enum-based counters/durations and a 24-entry ring in memory. UI action boundaries, Wiki requests/cache and Bank operations record typed outcomes; validation and expected states are separated from unexpected faults. Reports deliberately omit messages and dynamic payloads; only bounded own-package stack frames are retained for unexpected exceptions. Reports are reviewed and copied manually. Opening the static GitHub issue-form URL sends no report; no remote telemetry or persistent diagnostics store is implemented. Support config can stop and clear recording.
 
 Show worn items gets a distinct Loadout Studio submenu. Layout/filter actions carry the profile owner and draft session token, are checked on the EDT, open our navigation panel and modify only our draft. Automatic filtering yields to a competing active Bank Tag when respectOtherBankFilters is true; explicit player actions can switch the view. Pausing releases our independent view/predicate without closing the other tag. Other plugin menus and configuration remain untouched. This is cooperative ownership, not a global lock against another plugin's later writes; Inventory Setups' own active-panel requirement is documented for players to set manually.
+
+## Independent visual identity in 0.9.0
+
+StudioTheme owns the sidebar palette: background #131B25, surfaces #1B2633, controls #101721, turquoise accent #64D4C6 and muted text #9CB0C0. Logical SansSerif 12 is the UI body font; small uppercase section labels and a two-line LOADOUT/STUDIO wordmark distinguish the chrome from Inventory Setups' presentation. Route glyphs, an active underline, card rails and clear primary actions provide redundant visual cues. Favorites retain a warm secondary star.
+
+The change is limited to this component tree and locally created popup menus/tooltips. Native RuneLite settings and in-game menu rendering are owned by the host and remain unchanged. UIManager values are never modified by StudioTheme. Item art and count fonts remain OSRS-style, with existing grid dimensions and drag/drop semantics. Settings/export/diagnostic flags and stored data receive no migration or rewrite.
